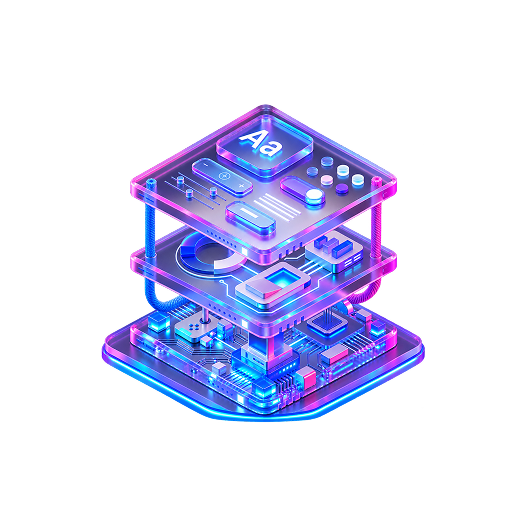
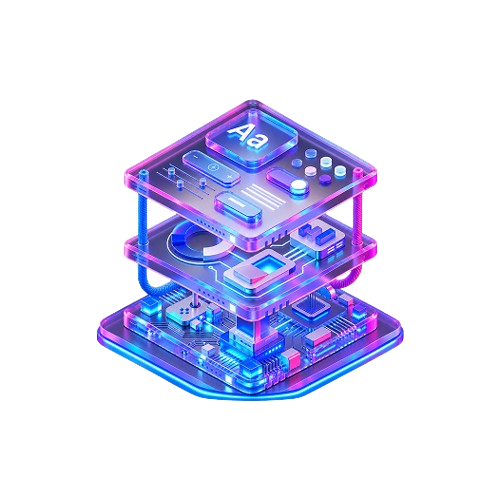
Hero section created

diff --git a/src/components/Footer.tsx b/src/components/Footer.tsx
@@ -1,53 +1,65 @@
-import logo from "../assets/logo-text.png"
-const footer = () => {
-    return (
-        <>
-            <footer className="py-10 [&_p]:text-[#475569FF] [&_p]:text-[14px] [&_p]:leading-[1.8em] border-t border-gray-200 mt-10 ">
-                <div className="container mx-auto grid grid-cols-12 gap-4">
+import logo from "../assets/logo-text.png";
+const Footer = () => {
+  return (
+    <footer className="mt-0 border-t border-gray-200">
 
-                    <div className="col-span-6 flex flex-col gap-4 items-start justify-center">
-                        <img src={logo} alt="" />
-                        <p className="text-[#475569FF] w-[480px]">Curated tools, technologies, and resources for developers building
-                            modern software.</p>
-                        <div className="flex gap-5 [&_p]:text-[black] [&_p]:text-[16px] [&_p:hover]:text-[#db2777FF] cursor-pointer">
-                            <p>GitHub</p>
-                            <p>Twitter</p>
-                            <p>Linkedin</p>
-                        </div>
-                    </div>
-                    <div className="col-span-2">
-                        <h3 className="uppercase mb-5">Products</h3>
-                        <p>Home</p>
-                        <p>Technologies</p>
-                        <p>Projects</p>
+      <div className="container mx-auto px-5 py-12 grid grid-cols-1 md:grid-cols-12 gap-8 md:px-0">
 
-                    </div>
-                    <div className="col-span-2">
-                        <h3 className="uppercase mb-5">Company</h3>
-                        <p>About</p>
-                        <p>Contact</p>
-                        <p>Career</p>
-                    </div>
-                    <div className="col-span-2">
-                        <h3 className="uppercase mb-5">Legal</h3>
-                        <p>Privacy Policy</p>
-                        <p>Terms of Service</p>
-                        
-                    </div>
+        <div className="md:col-span-6 flex flex-col items-center text-center md:items-start md:text-left gap-6 md:px-0">
+          <img src={logo} alt="Dev Stack" className="w-[130px] md:w-auto" />
 
-                </div>
-                    <div className="container mx-auto flex justify-between items-center mt-9 border border-gray-200 py-5 px-5">
-                        <div>
-                            <p>© 2026 Dev Stack. All rights reserved.</p>
-                        </div>
-                        <div className="flex gap-8 items-center">
-                            <p>Privacy</p>
-                            <p>Terms</p>
-                        </div>
-                    </div>
-            </footer>
-        </>
-    );
+          <p className="max-w-[520px] text-[16px] leading-[1.8] text-[#64748b]">
+            Curated tools, technologies, and resources for developers building modern software.
+          </p>
+
+          <div className="flex items-center justify-center md:justify-start gap-4 text-[16px] md:text-[14px]">
+            <a href="#" className="hover:text-[#db2777]">GitHub</a>
+            <span className="md:hidden">•</span>
+            <a href="#" className="hover:text-[#db2777]">Twitter</a>
+            <span className="md:hidden">•</span>
+            <a href="#" className="hover:text-[#db2777]">LinkedIn</a>
+          </div>
+        </div>
+
+        <div className="hidden md:block md:col-span-2">
+          <h3 className="uppercase font-semibold mb-5">Product</h3>
+          <p className="text-[#64748b] mb-2">Home</p>
+          <p className="text-[#64748b] mb-2">Technologies</p>
+          <p className="text-[#64748b]">Projects</p>
+        </div>
+
+        <div className="hidden md:block md:col-span-2">
+          <h3 className="uppercase font-semibold mb-5">Company</h3>
+          <p className="text-[#64748b] mb-2">About</p>
+          <p className="text-[#64748b] mb-2">Contact</p>
+          <p className="text-[#64748b]">Careers</p>
+        </div>
+
+        <div className="hidden md:block md:col-span-2">
+          <h3 className="uppercase font-semibold mb-5">Legal</h3>
+          <p className="text-[#64748b] mb-2">Privacy Policy</p>
+          <p className="text-[#64748b]">Terms of Service</p>
+        </div>
+
+      </div>
+
+      <div className="container mx-auto px-5 md:px-0">
+        <div className="border border-gray-200 py-5 px-5 flex items-center justify-between gap-3">
+
+          <p className="text-xs sm:text-sm text-[#64748b] whitespace-nowrap">
+            © 2026 Dev Stack. All rights reserved.
+          </p>
+
+          <div className="flex items-center gap-4 sm:gap-8">
+            <a href="#" className="text-xs sm:text-sm text-[#64748b] hover:text-[#db2777]">Privacy</a>
+            <a href="#" className="text-xs sm:text-sm text-[#64748b] hover:text-[#db2777]">Terms</a>
+          </div>
+
+        </div>
+      </div>
+
+    </footer>
+  );
 };
 
-export default footer;
+export default Footer;

diff --git a/src/components/Hero.tsx b/src/components/Hero.tsx
@@ -1,0 +1,52 @@
+import heroImage from "../assets/banner-stack-1.png"
+
+const Hero = () => {
+  return (
+    <header id="home" className="py-5 md:pt-12 pb-12">
+      <div className="container mx-auto flex flex-col md:flex-row items-center justify-between gap-10">
+
+        {/* Left Side */}
+        <div className="w-full md:w-1/2 text-center md:text-left">
+
+          <h1 className="text-[32px] sm:text-[38px] md:text-[60px] font-bold leading-[1.1em] text-[#0f172a]">
+            Build Your Ideal
+            <br />
+            <span className="bg-gradient-to-r from-[#ff6b16] via-[#ef3d79] to-[#953ddb] bg-clip-text text-transparent">
+              Development Stack
+            </span>
+          </h1>
+
+          <p className="mt-5 text-[#475569] text-[15px] sm:text-[16px] md:text-[18px] leading-7 max-w-[78%] mx-auto md:mx-0">
+            Explore frontend, backend, database, and tooling options, compare them side by side, and put together the stack that fits your next project.
+          </p>
+
+          <div className="grid grid-cols-2 gap-3 mt-7 px-4 md:flex md:justify-start md:px-0">
+
+            <button className="bg-gradient-to-r from-[#ff6b16] via-[#ef3d79] to-[#953ddb] text-white rounded-lg py-3 px-4 md:px-6 text-sm md:text-base cursor-pointer hover:opacity-90 transition">
+              Explore Technologies
+            </button>
+
+            <button className="border border-gray-300 text-[#0f172a] rounded-lg py-3 px-4 md:px-8 text-sm md:text-base cursor-pointer hover:bg-gray-50 transition">
+              Learn More
+            </button>
+
+          </div>
+        </div>
+
+        {/* Right Side / Hero Image */}
+        <div className="w-full md:w-1/2 flex justify-center mt-4 md:mt-0 md:justify-end">
+
+          <img
+            src={heroImage}
+            alt="Development Stack"
+            className="w-[65%] sm:w-[70%] md:w-[45%] max-w-full"
+          />
+
+        </div>
+
+      </div>
+    </header>
+  );
+};
+
+export default Hero;

diff --git a/src/components/Nav.tsx b/src/components/Nav.tsx
@@ -4,10 +4,10 @@ import mobileMenu from "../assets/mobile-menu.png"
 const Nav = () => {
     return (
         <>
-            <nav className=" hidden md:flex sm:flex py-4 border-b border-gray-200 sticky top-0 ">
+            <nav className=" hidden md:flex sm:flex py-4 border-b border-gray-200 sticky top-0 md:bg-white ">
                 <div className="container mx-auto flex justify-between items-center">
                     <div>
-                        <img src={logo} alt="Logo-Image" />
+                       <a href="#"><img src={logo} alt="Logo-Image" /></a> 
                     </div>
 
                     <ul className="
@@ -30,9 +30,9 @@ const Nav = () => {
 
             {/* Mobile nav */}
 
-            <nav className=" flex md:hidden py-4  sticky top-0 ">
-                <div className="w-[92%] mx-auto flex justify-between items-center border border-gray-100 py-1 px-2">
-                    <div>
+            <nav className=" flex md:hidden py-4  sticky top-0 bg-white ">
+                <div className="w-[95%] mx-auto flex justify-between items-center border border-gray-100 py-3 px-2">
+                    <div className="mr-6">
                         <img src={mobileMenu} alt="Logo-Image" />
                     </div>
 
@@ -41,7 +41,7 @@ const Nav = () => {
                     </div>
 
                     
-                    <div className="flex gap-2 items-center justify-center text-xs">
+                    <div className="flex gap-2 items-center justify-center text-xs ">
                         <button className="text-[#475569FF] hover:text-[#db2777FF] cursor-pointer">Sign In</button>
                         <button className="bg-[#d91b7eFF] text-white rounded-3xl py-1.5 px-3 cursor-pointer text-shadow-2xs hover:bg-[#953DDB] transition-colors duration-300">Sign Up</button>
                     </div>

diff --git a/src/App.tsx b/src/App.tsx
@@ -1,12 +1,14 @@
 import Nav from "./components/Nav";
 import Footer from "./components/Footer"
+import Hero from "./components/Hero";
 
 function App() {
   
   return (
     <>
     <Nav></Nav>
-    <main></main>
+    <Hero></Hero>
+    <h1 className="text-2xl">Main content goes here</h1>
     <Footer></Footer>
     </>
   )
